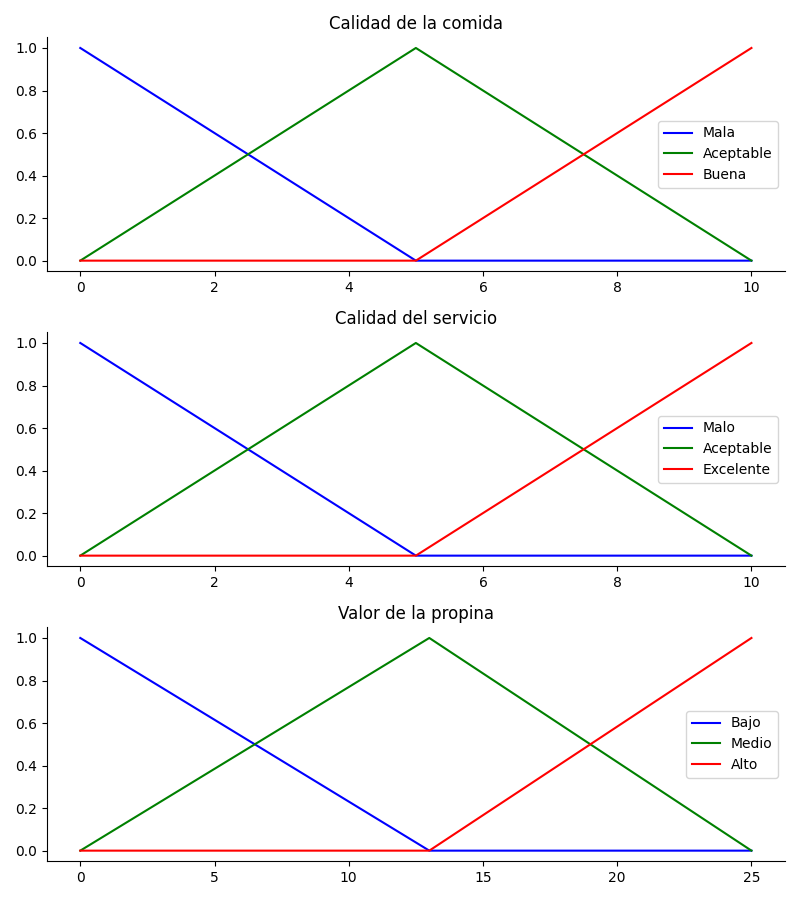
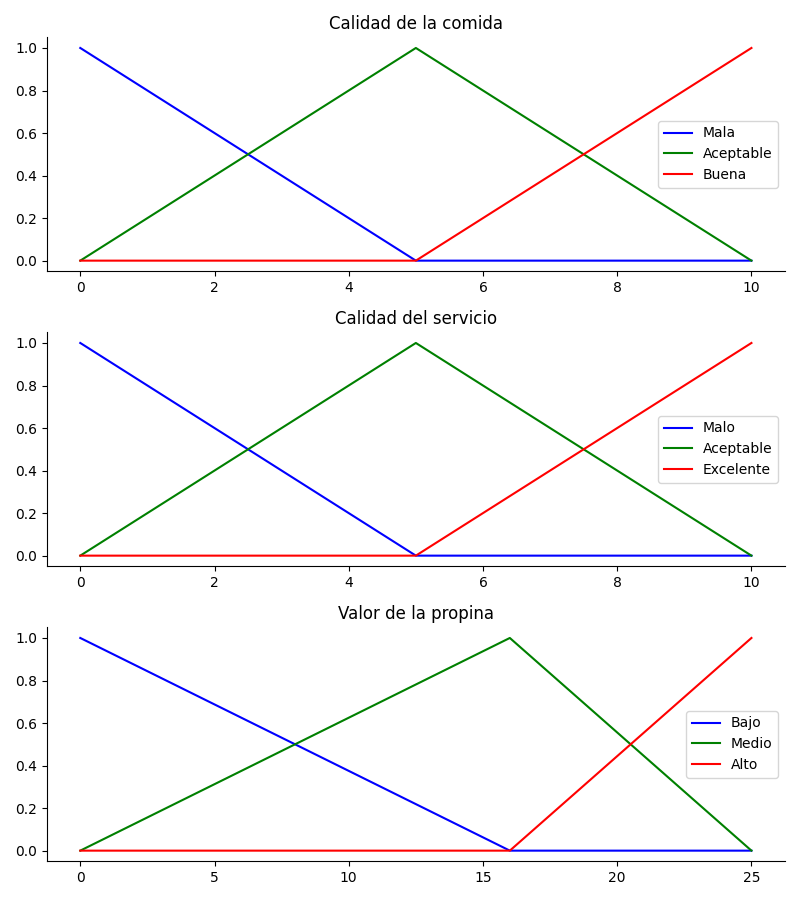
con cambios

diff --git a/Tercera Previa /Control difuso/ControlDifuso.py b/Tercera Previa /Control difuso/ControlDifuso.py
@@ -21,9 +21,9 @@ servicio_bajo = fuzz.trimf(x_servicio,[0,0,5])
 servicio_medio = fuzz.trimf(x_servicio,[0,5,10])
 servicio_alto = fuzz.trimf(x_servicio,[5,10,10])
 
-propina_baja = fuzz.trimf(x_propina,[0,0,13])
-propina_media = fuzz.trimf(x_propina,[0,13,25])
-propina_alta = fuzz.trimf(x_propina,[13,25,25])
+propina_baja = fuzz.trimf(x_propina,[0,0,16])
+propina_media = fuzz.trimf(x_propina,[0,16,25])
+propina_alta = fuzz.trimf(x_propina,[16,25,25])
 
 #Visualización
 fig,(ax0,ax1,ax2) = plt.subplots(nrows = 3, figsize = (8,9))
